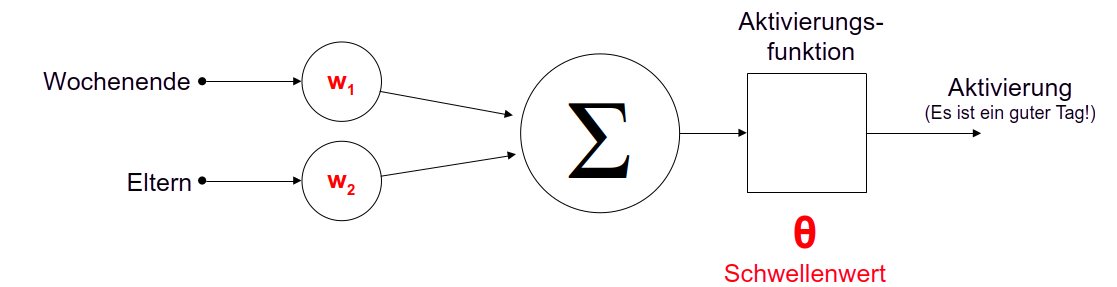
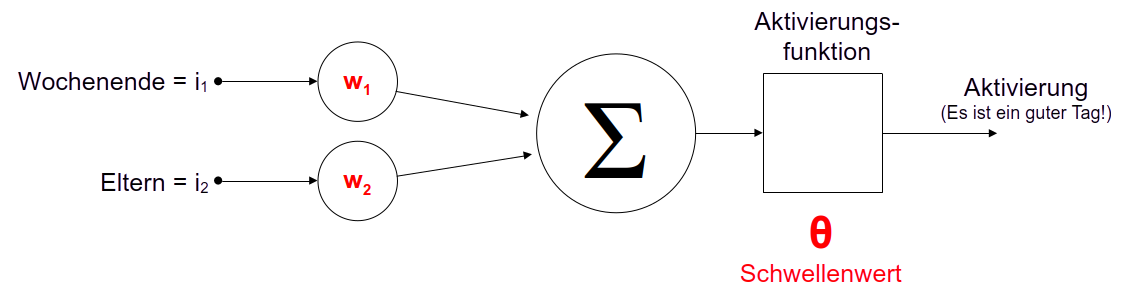
added i1 and i2 to some pictures, added training instructions

diff --git a/content/Perceptron.py b/content/Perceptron.py
@@ -353,6 +353,10 @@ class Perceptron:
                 </li>
                 <li>Press the start button to start the learning process.</li>
                 <li>
+                    Press the same button to continue the learning process
+                    step-by-step.
+                </li>
+                <li>
                     Press the "Finalize Epoch" button to continue learning
                     until the current epoch is finished (all inputs have been
                     tested once).
@@ -377,7 +381,9 @@ class Perceptron:
 
         inputImage1 = widgets.Image(
             value=open("pictures/weekend.png", "rb").read(), width=100)
-        inputLabel1 = widgets.Label(value=_("Weekend"))
+        inputLabel1 = widgets.HTML(
+            "<p style=\"text-align:center;\">" + _("Weekend") +
+            "<br><i>i<sub>1</sub></i></p>")
         self.inputCheckBox1A = widgets.Checkbox(
             disabled=True, style=checkBoxStyle,
             layout=checkBoxLayout, value=False)
@@ -397,7 +403,9 @@ class Perceptron:
 
         inputImage2 = widgets.Image(
             value=open("pictures/parents.png", "rb").read(), width=100)
-        inputLabel2 = widgets.Label(value=_("Visiting Parents"))
+        inputLabel2 = widgets.HTML(
+            "<p style=\"text-align:center;\">" + _("Visiting Parents") +
+            "<br><i>i<sub>2</sub></i></p>")
         self.inputCheckBox2A = widgets.Checkbox(
             disabled=True, style=checkBoxStyle,
             layout=checkBoxLayout, value=False)
@@ -417,7 +425,12 @@ class Perceptron:
 
         targetImage = widgets.Image(
             value=open("pictures/happy.png", "rb").read(), width=100)
-        targetLabel = widgets.Label(value=_("Nice Day?"))
+        # We have to add the empty "<sub> </sub>" here. Otherwise the
+        # checkboxes would not be aligned because the labels of inputs and
+        # target would have a different height.
+        targetLabel = widgets.HTML(
+            "<p style=\"text-align:center;\">" + _("Nice Day?") +
+            "<br><i>t<sub> </sub></i></p>")
         self.targetCheckBoxA = widgets.Checkbox(
             style=checkBoxStyle, layout=checkBoxLayout, value=False)
         self.targetCheckBoxB = widgets.Checkbox(
@@ -518,9 +531,17 @@ class Perceptron:
             [trainingHeader, targetsBox, self.alphaText,
              buttonsBox, self.epochLabel, self.protocolOutput, taskWidget])
 
+        # We have to add the empty "<sub> </sub>" here. Otherwise the
+        # checkboxes would not be aligned because the labels of inputs and
+        # target would have a different height.
+        inferenceTargetLabel = widgets.HTML(
+            "<p style=\"text-align:center;\">" + _("Nice Day?") +
+            "<br><i>o<sub> </sub></i></p>")
+        inferenceTargetVBox = widgets.VBox(
+            [targetImage, inferenceTargetLabel, self.targetCheckBox])
         inferenceBox = widgets.VBox(
             [inferenceHeader,
-             widgets.HBox([input1VBox, input2VBox, targetVBox])])
+             widgets.HBox([input1VBox, input2VBox, inferenceTargetVBox])])
 
         self.GUI = widgets.VBox([theoryBox, trainingBox, inferenceBox])
 
